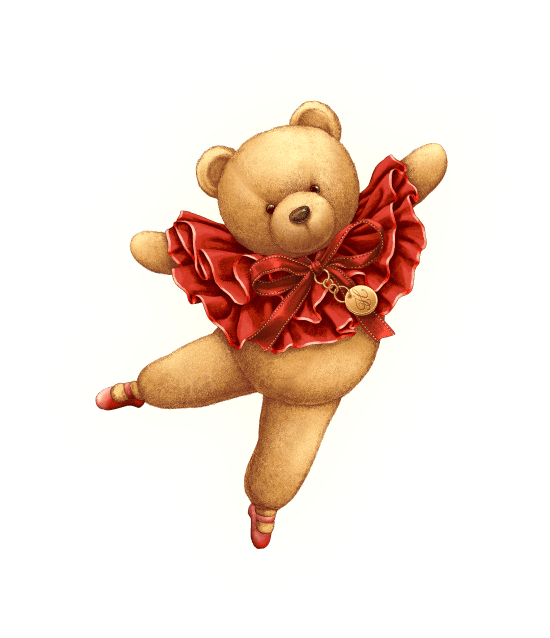
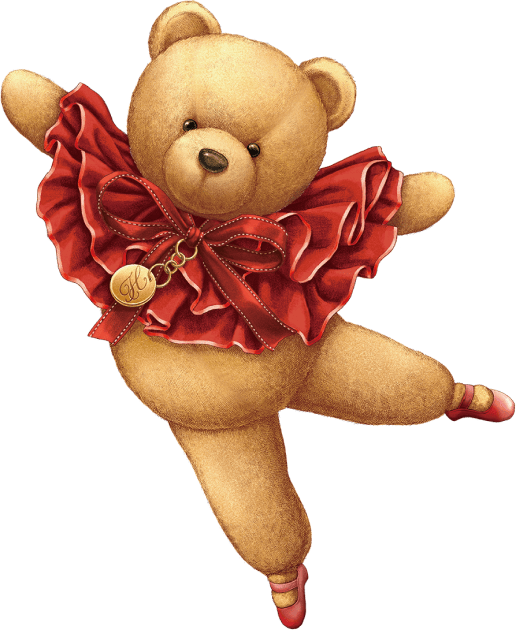
feat: h포인트 크리스마스 이벤트 페이지 (인트로 변경)

diff --git a/src/assets/scss/h-point-ch.scss b/src/assets/scss/h-point-ch.scss
@@ -88,7 +88,7 @@ button {
         &.intro {
             position: relative;
             width: 100%;
-            padding-bottom: 161.333%;
+            padding-bottom: 177.6%;
             z-index: 99;
             &::before {
                 position: absolute;
@@ -191,9 +191,9 @@ button {
                         .item {
                             position: absolute;
                             &.bear {
-                                top: 61.733vw;
-                                left: 14.5vw;
-                                width: 73.2vw;
+                                top: 87.466vw;
+                                right: 3.466vw;
+                                width: 68.8vw;
                                 .img-shadow {
                                     position: absolute;
                                     top: 56vw;
@@ -266,7 +266,7 @@ button {
 
                                 @keyframes move-item-ani1 {
                                     0% {transform: translateY(0) scaleX(1);}
-                                    50% {transform: translateY(-15vw) scaleX(0.99);}
+                                    50% {transform: translateY(-18vw) scaleX(0.99);}
                                     100% {transform: translateY(0) scaleX(1);}
                                 }
                                 @keyframes move-item-ani2 {
